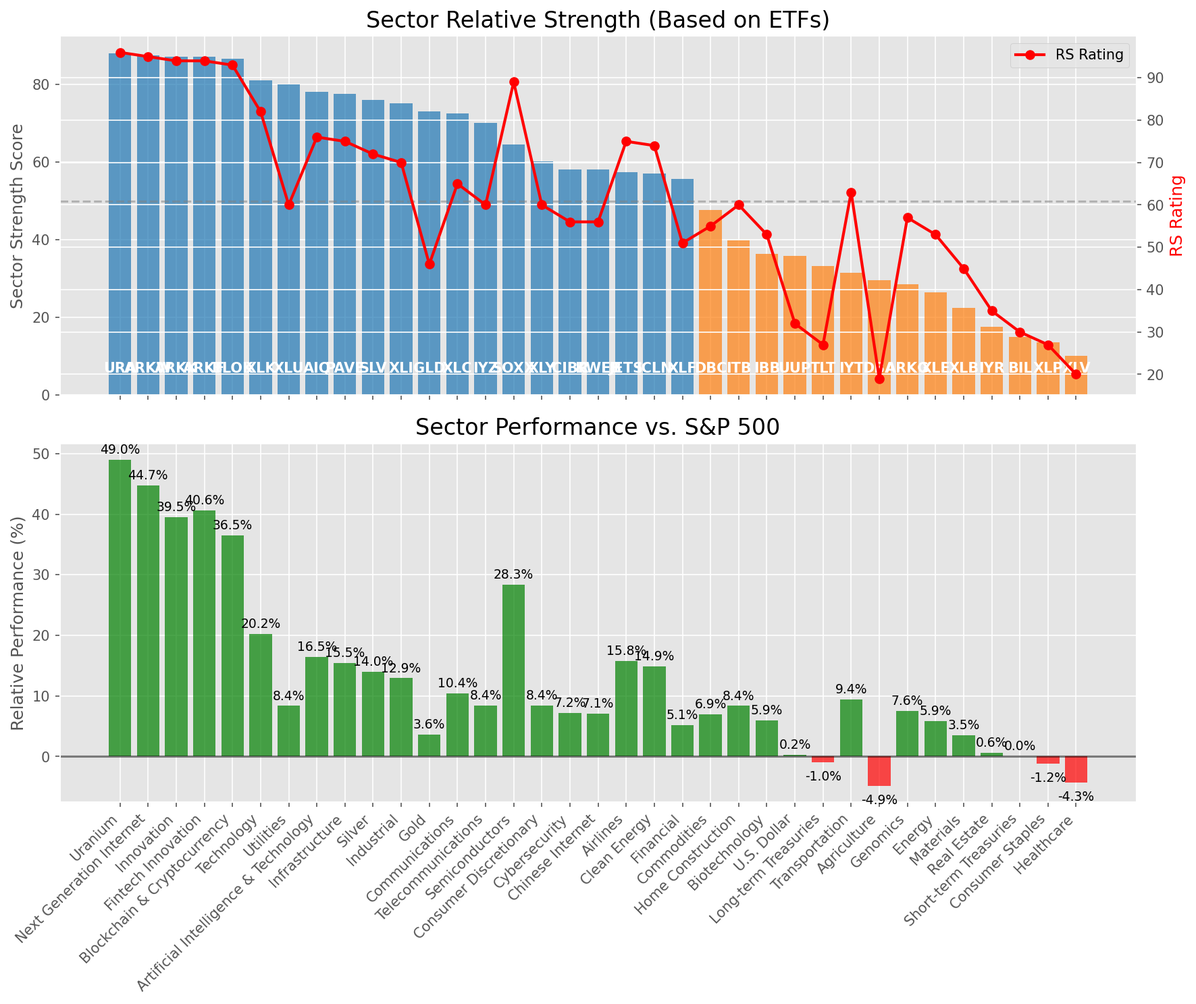
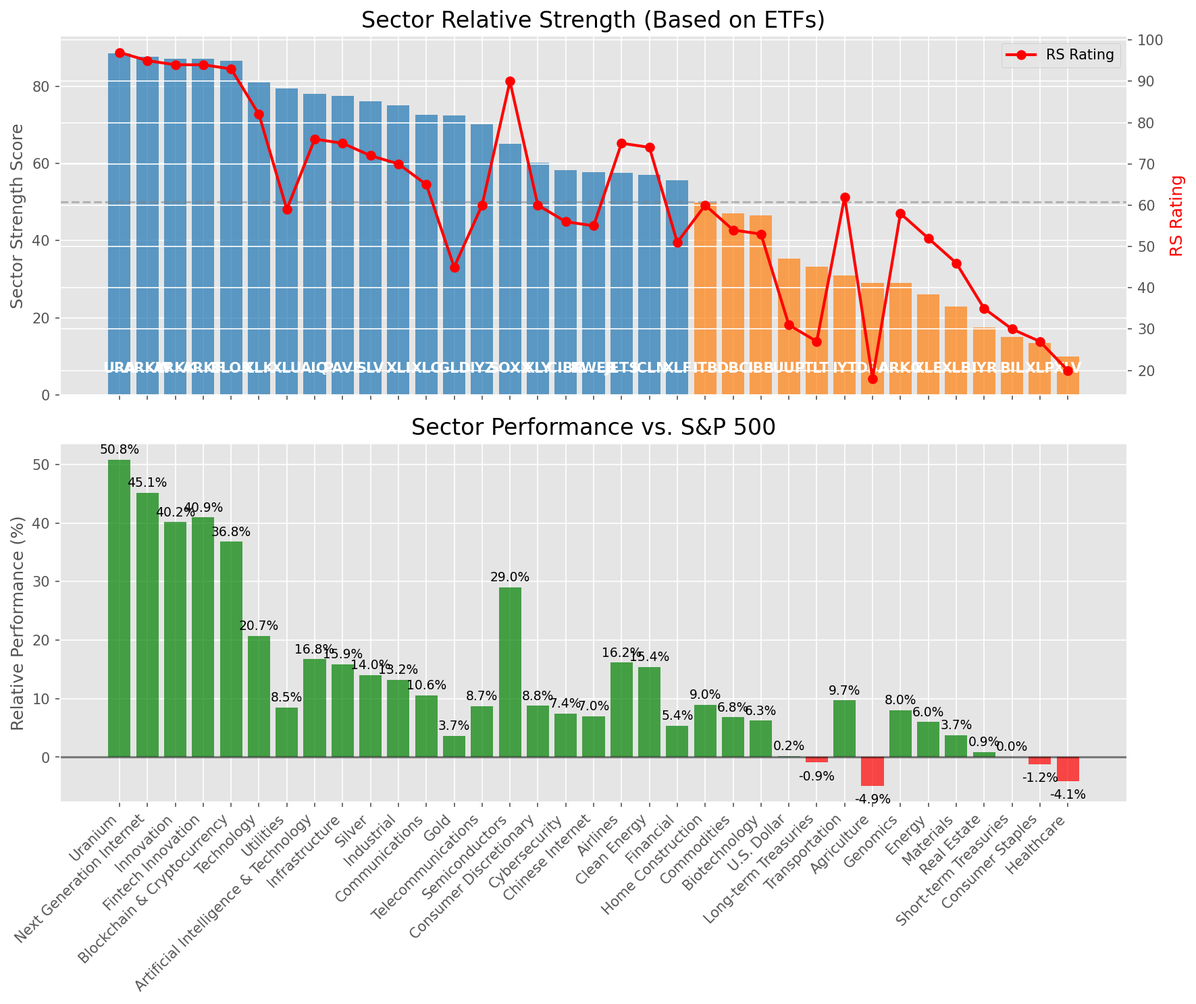
Add market report for 2025-08-01

diff --git a/oneil_relative_strength_report_2025-08-01.md b/oneil_relative_strength_report_2025-08-01.md
@@ -9,11 +9,11 @@
 | Metric | Value |
 |--------|-------|
 | **Market Valuation** | **Overvalued** |
-| **Current Ratio** | 10.06 |
+| **Current Ratio** | 10.09 |
 | **Historical Mean** | 9.55 |
 | **Standard Deviation** | 0.59 |
 | **Z-Score (StdDev from Mean)** | 1.20 |
-| **Total Market Cap** | $305.04 trillion |
+| **Total Market Cap** | $305.97 trillion |
 | **GDP** | $30.33 trillion |
 
 ## **Market Insights**
@@ -49,41 +49,41 @@ Based on William O'Neil's Relative Strength Methodology
 
 | ETF | Strength | RS Rating | Performance | Above Key MAs | Trend | Sector |
 |-----|----------|-----------|-------------|--------------|-------|--------|
-| [URA](https://www.tradingview.com/chart/?symbol=URA) | 88.1 | 96.0 | 48.99% | 10d ✗, 50d ✓, 200d ✓ | ↗ | Uranium |
-| [ARKW](https://www.tradingview.com/chart/?symbol=ARKW) | 87.6 | 95.0 | 44.72% | 10d ✗, 50d ✓, 200d ✓ | ↗ | Next Generation Internet |
-| [ARKK](https://www.tradingview.com/chart/?symbol=ARKK) | 87.1 | 94.0 | 39.50% | 10d ✗, 50d ✓, 200d ✓ | ↗ | Innovation |
-| [ARKF](https://www.tradingview.com/chart/?symbol=ARKF) | 87.1 | 94.0 | 40.58% | 10d ✗, 50d ✓, 200d ✓ | ↗ | Fintech Innovation |
-| [BLOK](https://www.tradingview.com/chart/?symbol=BLOK) | 86.6 | 93.0 | 36.53% | 10d ✗, 50d ✓, 200d ✓ | ↗ | Blockchain & Cryptocurrency |
-| [XLK](https://www.tradingview.com/chart/?symbol=XLK) | 81.1 | 82.0 | 20.25% | 10d ✗, 50d ✓, 200d ✓ | ↗ | Technology |
-| [XLU](https://www.tradingview.com/chart/?symbol=XLU) | 80.0 | 60.0 | 8.35% | 10d ✓, 50d ✓, 200d ✓ | ↗ | Utilities |
-| [AIQ](https://www.tradingview.com/chart/?symbol=AIQ) | 78.1 | 76.0 | 16.46% | 10d ✗, 50d ✓, 200d ✓ | ↗ | Artificial Intelligence & Technology |
-| [PAVE](https://www.tradingview.com/chart/?symbol=PAVE) | 77.6 | 75.0 | 15.48% | 10d ✗, 50d ✓, 200d ✓ | ↗ | Infrastructure |
-| [SLV](https://www.tradingview.com/chart/?symbol=SLV) | 76.1 | 72.0 | 13.98% | 10d ✗, 50d ✓, 200d ✓ | ↗ | Silver |
-| [XLI](https://www.tradingview.com/chart/?symbol=XLI) | 75.1 | 70.0 | 12.93% | 10d ✗, 50d ✓, 200d ✓ | ↗ | Industrial |
-| [GLD](https://www.tradingview.com/chart/?symbol=GLD) | 73.0 | 46.0 | 3.65% | 10d ✓, 50d ✓, 200d ✓ | ↗ | Gold |
-| [XLC](https://www.tradingview.com/chart/?symbol=XLC) | 72.6 | 65.0 | 10.41% | 10d ✗, 50d ✓, 200d ✓ | ↗ | Communications |
-| [IYZ](https://www.tradingview.com/chart/?symbol=IYZ) | 70.1 | 60.0 | 8.42% | 10d ✗, 50d ✓, 200d ✓ | ↗ | Telecommunications |
-| [SOXX](https://www.tradingview.com/chart/?symbol=SOXX) | 64.6 | 89.0 | 28.34% | 10d ✗, 50d ✓, 200d ✓ | ↘ | Semiconductors |
-| [XLY](https://www.tradingview.com/chart/?symbol=XLY) | 60.2 | 60.0 | 8.38% | 10d ✗, 50d ✗, 200d ✓ | ↗ | Consumer Discretionary |
-| [CIBR](https://www.tradingview.com/chart/?symbol=CIBR) | 58.2 | 56.0 | 7.24% | 10d ✗, 50d ✗, 200d ✓ | ↗ | Cybersecurity |
-| [KWEB](https://www.tradingview.com/chart/?symbol=KWEB) | 58.2 | 56.0 | 7.06% | 10d ✗, 50d ✗, 200d ✓ | ↗ | Chinese Internet |
-| [JETS](https://www.tradingview.com/chart/?symbol=JETS) | 57.5 | 75.0 | 15.80% | 10d ✗, 50d ✗, 200d ✗ | ↗ | Airlines |
-| [ICLN](https://www.tradingview.com/chart/?symbol=ICLN) | 57.1 | 74.0 | 14.86% | 10d ✗, 50d ✓, 200d ✓ | ↘ | Clean Energy |
-| [XLF](https://www.tradingview.com/chart/?symbol=XLF) | 55.7 | 51.0 | 5.15% | 10d ✗, 50d ✗, 200d ✓ | ↗ | Financial |
-| [DBC](https://www.tradingview.com/chart/?symbol=DBC) | 47.6 | 55.0 | 6.94% | 10d ✗, 50d ✓, 200d ✓ | ↘ | Commodities |
-| [ITB](https://www.tradingview.com/chart/?symbol=ITB) | 39.9 | 60.0 | 8.37% | 10d ✗, 50d ✓, 200d ✗ | ↘ | Home Construction |
-| [IBB](https://www.tradingview.com/chart/?symbol=IBB) | 36.4 | 53.0 | 5.93% | 10d ✗, 50d ✓, 200d ✗ | ↘ | Biotechnology |
-| [UUP](https://www.tradingview.com/chart/?symbol=UUP) | 35.8 | 32.0 | 0.24% | 10d ✓, 50d ✓, 200d ✗ | ↘ | U.S. Dollar |
-| [TLT](https://www.tradingview.com/chart/?symbol=TLT) | 33.3 | 27.0 | -1.00% | 10d ✓, 50d ✓, 200d ✗ | ↘ | Long-term Treasuries |
-| [IYT](https://www.tradingview.com/chart/?symbol=IYT) | 31.5 | 63.0 | 9.40% | 10d ✗, 50d ✗, 200d ✗ | ↘ | Transportation |
-| [DBA](https://www.tradingview.com/chart/?symbol=DBA) | 29.5 | 19.0 | -4.86% | 10d ✗, 50d ✗, 200d ✗ | ↗ | Agriculture |
-| [ARKG](https://www.tradingview.com/chart/?symbol=ARKG) | 28.5 | 57.0 | 7.56% | 10d ✗, 50d ✗, 200d ✗ | ↘ | Genomics |
-| [XLE](https://www.tradingview.com/chart/?symbol=XLE) | 26.5 | 53.0 | 5.87% | 10d ✗, 50d ✗, 200d ✗ | ↘ | Energy |
-| [XLB](https://www.tradingview.com/chart/?symbol=XLB) | 22.5 | 45.0 | 3.53% | 10d ✗, 50d ✗, 200d ✗ | ↘ | Materials |
-| [IYR](https://www.tradingview.com/chart/?symbol=IYR) | 17.5 | 35.0 | 0.65% | 10d ✗, 50d ✗, 200d ✗ | ↘ | Real Estate |
+| [URA](https://www.tradingview.com/chart/?symbol=URA) | 88.6 | 97.0 | 50.81% | 10d ✗, 50d ✓, 200d ✓ | ↗ | Uranium |
+| [ARKW](https://www.tradingview.com/chart/?symbol=ARKW) | 87.6 | 95.0 | 45.14% | 10d ✗, 50d ✓, 200d ✓ | ↗ | Next Generation Internet |
+| [ARKK](https://www.tradingview.com/chart/?symbol=ARKK) | 87.1 | 94.0 | 40.16% | 10d ✗, 50d ✓, 200d ✓ | ↗ | Innovation |
+| [ARKF](https://www.tradingview.com/chart/?symbol=ARKF) | 87.1 | 94.0 | 40.94% | 10d ✗, 50d ✓, 200d ✓ | ↗ | Fintech Innovation |
+| [BLOK](https://www.tradingview.com/chart/?symbol=BLOK) | 86.6 | 93.0 | 36.83% | 10d ✗, 50d ✓, 200d ✓ | ↗ | Blockchain & Cryptocurrency |
+| [XLK](https://www.tradingview.com/chart/?symbol=XLK) | 81.1 | 82.0 | 20.70% | 10d ✗, 50d ✓, 200d ✓ | ↗ | Technology |
+| [XLU](https://www.tradingview.com/chart/?symbol=XLU) | 79.5 | 59.0 | 8.47% | 10d ✓, 50d ✓, 200d ✓ | ↗ | Utilities |
+| [AIQ](https://www.tradingview.com/chart/?symbol=AIQ) | 78.1 | 76.0 | 16.76% | 10d ✗, 50d ✓, 200d ✓ | ↗ | Artificial Intelligence & Technology |
+| [PAVE](https://www.tradingview.com/chart/?symbol=PAVE) | 77.6 | 75.0 | 15.85% | 10d ✗, 50d ✓, 200d ✓ | ↗ | Infrastructure |
+| [SLV](https://www.tradingview.com/chart/?symbol=SLV) | 76.1 | 72.0 | 14.04% | 10d ✗, 50d ✓, 200d ✓ | ↗ | Silver |
+| [XLI](https://www.tradingview.com/chart/?symbol=XLI) | 75.1 | 70.0 | 13.22% | 10d ✗, 50d ✓, 200d ✓ | ↗ | Industrial |
+| [XLC](https://www.tradingview.com/chart/?symbol=XLC) | 72.6 | 65.0 | 10.56% | 10d ✗, 50d ✓, 200d ✓ | ↗ | Communications |
+| [GLD](https://www.tradingview.com/chart/?symbol=GLD) | 72.5 | 45.0 | 3.68% | 10d ✓, 50d ✓, 200d ✓ | ↗ | Gold |
+| [IYZ](https://www.tradingview.com/chart/?symbol=IYZ) | 70.1 | 60.0 | 8.72% | 10d ✗, 50d ✓, 200d ✓ | ↗ | Telecommunications |
+| [SOXX](https://www.tradingview.com/chart/?symbol=SOXX) | 65.1 | 90.0 | 29.02% | 10d ✗, 50d ✓, 200d ✓ | ↘ | Semiconductors |
+| [XLY](https://www.tradingview.com/chart/?symbol=XLY) | 60.2 | 60.0 | 8.76% | 10d ✗, 50d ✗, 200d ✓ | ↗ | Consumer Discretionary |
+| [CIBR](https://www.tradingview.com/chart/?symbol=CIBR) | 58.2 | 56.0 | 7.45% | 10d ✗, 50d ✗, 200d ✓ | ↗ | Cybersecurity |
+| [KWEB](https://www.tradingview.com/chart/?symbol=KWEB) | 57.7 | 55.0 | 6.99% | 10d ✗, 50d ✗, 200d ✓ | ↗ | Chinese Internet |
+| [JETS](https://www.tradingview.com/chart/?symbol=JETS) | 57.5 | 75.0 | 16.17% | 10d ✗, 50d ✗, 200d ✗ | ↗ | Airlines |
+| [ICLN](https://www.tradingview.com/chart/?symbol=ICLN) | 57.1 | 74.0 | 15.42% | 10d ✗, 50d ✓, 200d ✓ | ↘ | Clean Energy |
+| [XLF](https://www.tradingview.com/chart/?symbol=XLF) | 55.7 | 51.0 | 5.41% | 10d ✗, 50d ✗, 200d ✓ | ↗ | Financial |
+| [ITB](https://www.tradingview.com/chart/?symbol=ITB) | 49.8 | 60.0 | 8.98% | 10d ✓, 50d ✓, 200d ✗ | ↘ | Home Construction |
+| [DBC](https://www.tradingview.com/chart/?symbol=DBC) | 47.1 | 54.0 | 6.82% | 10d ✗, 50d ✓, 200d ✓ | ↘ | Commodities |
+| [IBB](https://www.tradingview.com/chart/?symbol=IBB) | 46.6 | 53.0 | 6.27% | 10d ✗, 50d ✓, 200d ✓ | ↘ | Biotechnology |
+| [UUP](https://www.tradingview.com/chart/?symbol=UUP) | 35.3 | 31.0 | 0.16% | 10d ✓, 50d ✓, 200d ✗ | ↘ | U.S. Dollar |
+| [TLT](https://www.tradingview.com/chart/?symbol=TLT) | 33.3 | 27.0 | -0.92% | 10d ✓, 50d ✓, 200d ✗ | ↘ | Long-term Treasuries |
+| [IYT](https://www.tradingview.com/chart/?symbol=IYT) | 31.0 | 62.0 | 9.68% | 10d ✗, 50d ✗, 200d ✗ | ↘ | Transportation |
+| [DBA](https://www.tradingview.com/chart/?symbol=DBA) | 29.0 | 18.0 | -4.91% | 10d ✗, 50d ✗, 200d ✗ | ↗ | Agriculture |
+| [ARKG](https://www.tradingview.com/chart/?symbol=ARKG) | 29.0 | 58.0 | 8.05% | 10d ✗, 50d ✗, 200d ✗ | ↘ | Genomics |
+| [XLE](https://www.tradingview.com/chart/?symbol=XLE) | 26.0 | 52.0 | 5.99% | 10d ✗, 50d ✗, 200d ✗ | ↘ | Energy |
+| [XLB](https://www.tradingview.com/chart/?symbol=XLB) | 23.0 | 46.0 | 3.75% | 10d ✗, 50d ✗, 200d ✗ | ↘ | Materials |
+| [IYR](https://www.tradingview.com/chart/?symbol=IYR) | 17.5 | 35.0 | 0.88% | 10d ✗, 50d ✗, 200d ✗ | ↘ | Real Estate |
 | [BIL](https://www.tradingview.com/chart/?symbol=BIL) | 15.0 | 30.0 | 0.04% | 10d ✗, 50d ✗, 200d ✗ | ↘ | Short-term Treasuries |
-| [XLP](https://www.tradingview.com/chart/?symbol=XLP) | 13.5 | 27.0 | -1.18% | 10d ✗, 50d ✗, 200d ✗ | ↘ | Consumer Staples |
-| [XLV](https://www.tradingview.com/chart/?symbol=XLV) | 10.0 | 20.0 | -4.26% | 10d ✗, 50d ✗, 200d ✗ | ↘ | Healthcare |
+| [XLP](https://www.tradingview.com/chart/?symbol=XLP) | 13.5 | 27.0 | -1.23% | 10d ✗, 50d ✗, 200d ✗ | ↘ | Consumer Staples |
+| [XLV](https://www.tradingview.com/chart/?symbol=XLV) | 10.0 | 20.0 | -4.06% | 10d ✗, 50d ✗, 200d ✗ | ↘ | Healthcare |
 
 ### **Sector ETF Performance Interpretation**
 
@@ -100,147 +100,144 @@ This table shows the relative strength metrics for different market sectors base
 
 The current market leadership is coming from the following sectors: **Uranium, Next Generation Internet, Innovation**.
 
-The **Uranium** sector (represented by **URA**) is showing particularly strong relative strength with an RS rating of 96.0 and performance of 48.99% vs. the S&P 500. This sector is trading above its 50-day, 200-day moving average(s). Investors should consider focusing on high RS stocks within these leading sectors for potential outperformance.
+The **Uranium** sector (represented by **URA**) is showing particularly strong relative strength with an RS rating of 97.0 and performance of 50.81% vs. the S&P 500. This sector is trading above its 50-day, 200-day moving average(s). Investors should consider focusing on high RS stocks within these leading sectors for potential outperformance.
 
 ---
 
 ## **Buy Recommendations**
 
-The following 36 stocks show exceptional relative strength:
+The following 40 stocks show exceptional relative strength:
 
 | RS Rating | Buy Score | Current Price | Chart | Name | Ticker |
 |-----------|-----------|---------------|-------|------|--------|
-| 100 | 100 | $192.00 | [Chart](https://www.tradingview.com/chart/?symbol=CLS) | Celestica, Inc. | CLS |
-| 100 | 100 | $105.68 | [Chart](https://www.tradingview.com/chart/?symbol=CRDO) | Credo Technology Group Holding Ltd Ordinary Shares | CRDO |
-| 100 | 100 | $61.92 | [Chart](https://www.tradingview.com/chart/?symbol=MP) | MP Materials Corp. | MP |
-| 100 | 100 | $227.20 | [Chart](https://www.tradingview.com/chart/?symbol=DAVE) | Dave Inc. Class A Common Stock | DAVE |
-| 99 | 100 | $27.08 | [Chart](https://www.tradingview.com/chart/?symbol=CPS) | Cooper-Standard Automotive Inc. | CPS |
-| 99 | 100 | $651.89 | [Chart](https://www.tradingview.com/chart/?symbol=GEV) | GE Vernova Inc. | GEV |
-| 99 | 100 | $61.92 | [Chart](https://www.tradingview.com/chart/?symbol=HIMS) | Hims & Hers Health, Inc. | HIMS |
-| 99 | 100 | $375.96 | [Chart](https://www.tradingview.com/chart/?symbol=TLN) | Talen Energy Corporation Common Stock | TLN |
-| 99 | 100 | $125.63 | [Chart](https://www.tradingview.com/chart/?symbol=RBLX) | Roblox Corporation | RBLX |
-| 98 | 100 | $199.91 | [Chart](https://www.tradingview.com/chart/?symbol=NET) | Cloudflare, Inc. Class A common stock, par value $0.001 per share | NET |
-| 97 | 100 | $163.48 | [Chart](https://www.tradingview.com/chart/?symbol=IRTC) | iRhythm Technologies, Inc | IRTC |
-| 96 | 100 | $166.12 | [Chart](https://www.tradingview.com/chart/?symbol=NRG) | NRG Energy, Inc. | NRG |
-| 96 | 100 | $105.18 | [Chart](https://www.tradingview.com/chart/?symbol=VRNA) | Verona Pharma plc | VRNA |
-| 96 | 100 | $367.15 | [Chart](https://www.tradingview.com/chart/?symbol=CVNA) | Carvana Co. | CVNA |
-| 95 | 100 | $171.99 | [Chart](https://www.tradingview.com/chart/?symbol=COOP) | Mr. Cooper Group Inc. Common Stock | COOP |
-| 94 | 100 | $110.53 | [Chart](https://www.tradingview.com/chart/?symbol=SANM) | Sanmina  Corp | SANM |
-| 94 | 100 | $490.37 | [Chart](https://www.tradingview.com/chart/?symbol=CW) | Curtiss-Wright Corp. | CW |
-| 93 | 100 | $86.94 | [Chart](https://www.tradingview.com/chart/?symbol=RYTM) | Rhythm Pharmaceuticals, Inc. Common Stock | RYTM |
-| 93 | 100 | $91.94 | [Chart](https://www.tradingview.com/chart/?symbol=EBAY) | eBay Inc | EBAY |
-| 93 | 100 | $42.92 | [Chart](https://www.tradingview.com/chart/?symbol=LTM) | LATAM Airlines Group S.A. American Depositary Shares (each representing two thousand (2,000) shares of Common Stock) | LTM |
-| 92 | 100 | $375.33 | [Chart](https://www.tradingview.com/chart/?symbol=APP) | Applovin Corporation Class A Common Stock | APP |
-| 91 | 100 | $268.16 | [Chart](https://www.tradingview.com/chart/?symbol=GE) | GE Aerospace | GE |
-| 90 | 100 | $35.04 | [Chart](https://www.tradingview.com/chart/?symbol=APG) | APi Group Corporation | APG |
-| 90 | 100 | $80.59 | [Chart](https://www.tradingview.com/chart/?symbol=TPB) | Turning Point Brands, Inc. | TPB |
-| 88 | 100 | $144.52 | [Chart](https://www.tradingview.com/chart/?symbol=VSEC) | VSE Corp | VSEC |
-| 87 | 100 | $29.41 | [Chart](https://www.tradingview.com/chart/?symbol=SRAD) | Sportradar Group AG Class A Ordinary Shares | SRAD |
-| 89 | 99 | $186.89 | [Chart](https://www.tradingview.com/chart/?symbol=AWI) | Armstrong World Industries, Inc. | AWI |
-| 87 | 99 | $54.37 | [Chart](https://www.tradingview.com/chart/?symbol=BTI) | British American Tobacco p.l.c. American Depositary Shares, American Depositary Shares, each representing one Ordinary Share | BTI |
-| 85 | 98 | $56.70 | [Chart](https://www.tradingview.com/chart/?symbol=ERJ) | Embraer S.A. | ERJ |
-| 84 | 97 | $38.78 | [Chart](https://www.tradingview.com/chart/?symbol=AHR) | American Healthcare REIT, Inc. | AHR |
-| 86 | 96 | $94.60 | [Chart](https://www.tradingview.com/chart/?symbol=NDAQ) | Nasdaq, Inc. Common Stock | NDAQ |
-| 86 | 96 | $257.14 | [Chart](https://www.tradingview.com/chart/?symbol=WTS) | Watts Water Technologies, Inc. Class A | WTS |
-| 85 | 96 | $71.78 | [Chart](https://www.tradingview.com/chart/?symbol=ULS) | UL Solutions Inc. | ULS |
-| 84 | 96 | $47.05 | [Chart](https://www.tradingview.com/chart/?symbol=BBIO) | BridgeBio Pharma, Inc. Common Stock | BBIO |
-| 81 | 91 | $110.93 | [Chart](https://www.tradingview.com/chart/?symbol=SXT) | Sensient Technology Corporation | SXT |
-| 80 | 91 | $234.71 | [Chart](https://www.tradingview.com/chart/?symbol=BAP) | Credicorp LTD | BAP |
+| 100 | 100 | $143.89 | [Chart](https://www.tradingview.com/chart/?symbol=SEZL) | Sezzle Inc. Common Stock | SEZL |
+| 100 | 100 | $230.88 | [Chart](https://www.tradingview.com/chart/?symbol=DAVE) | Dave Inc. Class A Common Stock | DAVE |
+| 100 | 100 | $63.70 | [Chart](https://www.tradingview.com/chart/?symbol=MP) | MP Materials Corp. | MP |
+| 100 | 100 | $193.70 | [Chart](https://www.tradingview.com/chart/?symbol=CLS) | Celestica, Inc. | CLS |
+| 99 | 100 | $655.82 | [Chart](https://www.tradingview.com/chart/?symbol=GEV) | GE Vernova Inc. | GEV |
+| 99 | 100 | $61.98 | [Chart](https://www.tradingview.com/chart/?symbol=HIMS) | Hims & Hers Health, Inc. | HIMS |
+| 99 | 100 | $124.51 | [Chart](https://www.tradingview.com/chart/?symbol=RBLX) | Roblox Corporation | RBLX |
+| 99 | 100 | $27.34 | [Chart](https://www.tradingview.com/chart/?symbol=CPS) | Cooper-Standard Automotive Inc. | CPS |
+| 98 | 100 | $199.79 | [Chart](https://www.tradingview.com/chart/?symbol=NET) | Cloudflare, Inc. Class A common stock, par value $0.001 per share | NET |
+| 98 | 100 | $379.57 | [Chart](https://www.tradingview.com/chart/?symbol=TLN) | Talen Energy Corporation Common Stock | TLN |
+| 97 | 100 | $165.69 | [Chart](https://www.tradingview.com/chart/?symbol=IRTC) | iRhythm Technologies, Inc | IRTC |
+| 96 | 100 | $167.58 | [Chart](https://www.tradingview.com/chart/?symbol=NRG) | NRG Energy, Inc. | NRG |
+| 95 | 100 | $172.48 | [Chart](https://www.tradingview.com/chart/?symbol=COOP) | Mr. Cooper Group Inc. Common Stock | COOP |
+| 95 | 100 | $105.16 | [Chart](https://www.tradingview.com/chart/?symbol=VRNA) | Verona Pharma plc | VRNA |
+| 95 | 100 | $367.42 | [Chart](https://www.tradingview.com/chart/?symbol=CVNA) | Carvana Co. | CVNA |
+| 95 | 100 | $48.30 | [Chart](https://www.tradingview.com/chart/?symbol=REVG) | REV Group, Inc. | REVG |
+| 94 | 100 | $110.78 | [Chart](https://www.tradingview.com/chart/?symbol=SANM) | Sanmina  Corp | SANM |
+| 94 | 100 | $493.45 | [Chart](https://www.tradingview.com/chart/?symbol=CW) | Curtiss-Wright Corp. | CW |
+| 93 | 100 | $258.85 | [Chart](https://www.tradingview.com/chart/?symbol=WWD) | Woodward, Inc. | WWD |
+| 93 | 100 | $379.67 | [Chart](https://www.tradingview.com/chart/?symbol=APP) | Applovin Corporation Class A Common Stock | APP |
+| 93 | 100 | $92.34 | [Chart](https://www.tradingview.com/chart/?symbol=EBAY) | eBay Inc | EBAY |
+| 93 | 100 | $87.59 | [Chart](https://www.tradingview.com/chart/?symbol=RYTM) | Rhythm Pharmaceuticals, Inc. Common Stock | RYTM |
+| 93 | 100 | $43.02 | [Chart](https://www.tradingview.com/chart/?symbol=LTM) | LATAM Airlines Group S.A. American Depositary Shares (each representing two thousand (2,000) shares of Common Stock) | LTM |
+| 91 | 100 | $268.80 | [Chart](https://www.tradingview.com/chart/?symbol=GE) | GE Aerospace | GE |
+| 91 | 100 | $81.68 | [Chart](https://www.tradingview.com/chart/?symbol=TPB) | Turning Point Brands, Inc. | TPB |
+| 90 | 100 | $35.22 | [Chart](https://www.tradingview.com/chart/?symbol=APG) | APi Group Corporation | APG |
+| 88 | 100 | $29.69 | [Chart](https://www.tradingview.com/chart/?symbol=SRAD) | Sportradar Group AG Class A Ordinary Shares | SRAD |
+| 88 | 100 | $145.91 | [Chart](https://www.tradingview.com/chart/?symbol=VSEC) | VSE Corp | VSEC |
+| 89 | 99 | $187.46 | [Chart](https://www.tradingview.com/chart/?symbol=AWI) | Armstrong World Industries, Inc. | AWI |
+| 87 | 99 | $54.40 | [Chart](https://www.tradingview.com/chart/?symbol=BTI) | British American Tobacco p.l.c. American Depositary Shares, American Depositary Shares, each representing one Ordinary Share | BTI |
+| 86 | 99 | $56.93 | [Chart](https://www.tradingview.com/chart/?symbol=ERJ) | Embraer S.A. | ERJ |
+| 84 | 97 | $32.47 | [Chart](https://www.tradingview.com/chart/?symbol=DB) | Deutsche Bank Aktiengesellschaft | DB |
+| 84 | 97 | $38.89 | [Chart](https://www.tradingview.com/chart/?symbol=AHR) | American Healthcare REIT, Inc. | AHR |
+| 86 | 96 | $94.86 | [Chart](https://www.tradingview.com/chart/?symbol=NDAQ) | Nasdaq, Inc. Common Stock | NDAQ |
+| 86 | 96 | $258.86 | [Chart](https://www.tradingview.com/chart/?symbol=WTS) | Watts Water Technologies, Inc. Class A | WTS |
+| 85 | 96 | $71.99 | [Chart](https://www.tradingview.com/chart/?symbol=ULS) | UL Solutions Inc. | ULS |
+| 84 | 96 | $46.95 | [Chart](https://www.tradingview.com/chart/?symbol=BBIO) | BridgeBio Pharma, Inc. Common Stock | BBIO |
+| 82 | 92 | $49.31 | [Chart](https://www.tradingview.com/chart/?symbol=FHI) | Federated Hermes, Inc. | FHI |
+| 81 | 91 | $111.49 | [Chart](https://www.tradingview.com/chart/?symbol=SXT) | Sensient Technology Corporation | SXT |
+| 80 | 91 | $236.16 | [Chart](https://www.tradingview.com/chart/?symbol=BAP) | Credicorp LTD | BAP |
 
 ---
 
 
 ## **Sell Recommendations**
 
-The following 85 stocks show deteriorating relative strength:
+The following 78 stocks show deteriorating relative strength:
 
 | RS Rating | Sell Score | Current Price | Chart | Name | Ticker |
 |-----------|------------|---------------|-------|------|--------|
-| 1 | 100 | $70.11 | [Chart](https://www.tradingview.com/chart/?symbol=LNTH) | Lantheus Holdings, Inc | LNTH |
-| 1 | 100 | $12.59 | [Chart](https://www.tradingview.com/chart/?symbol=NVDS) | Investment Managers Series Trust II Tradr 1.5X Short NVDA Daily ETF | NVDS |
-| 2 | 100 | $13.67 | [Chart](https://www.tradingview.com/chart/?symbol=CLBT) | Cellebrite DI Ltd. Class A Ordinary Shares | CLBT |
-| 2 | 100 | $35.00 | [Chart](https://www.tradingview.com/chart/?symbol=IBTA) | Ibotta, Inc. | IBTA |
-| 3 | 100 | $24.32 | [Chart](https://www.tradingview.com/chart/?symbol=DUST) | Direxion Daily Gold Miners Index Bear 2X Shares | DUST |
-| 3 | 100 | $14.82 | [Chart](https://www.tradingview.com/chart/?symbol=CSTL) | Castle Biosciences, Inc. Common Stock | CSTL |
-| 3 | 100 | $15.30 | [Chart](https://www.tradingview.com/chart/?symbol=TVTX) | Travere Therapeutics, Inc. Common Stock | TVTX |
-| 4 | 100 | $24.63 | [Chart](https://www.tradingview.com/chart/?symbol=ZSL) | ProShares UltraShort Silver | ZSL |
-| 5 | 100 | $12.21 | [Chart](https://www.tradingview.com/chart/?symbol=CDNA) | CareDx, Inc. | CDNA |
-| 5 | 100 | $10.20 | [Chart](https://www.tradingview.com/chart/?symbol=ARDT) | Ardent Health, Inc. | ARDT |
+| 1 | 100 | $12.49 | [Chart](https://www.tradingview.com/chart/?symbol=NVDS) | Investment Managers Series Trust II Tradr 1.5X Short NVDA Daily ETF | NVDS |
+| 1 | 100 | $70.59 | [Chart](https://www.tradingview.com/chart/?symbol=LNTH) | Lantheus Holdings, Inc | LNTH |
+| 2 | 100 | $13.72 | [Chart](https://www.tradingview.com/chart/?symbol=CLBT) | Cellebrite DI Ltd. Class A Ordinary Shares | CLBT |
+| 2 | 100 | $35.27 | [Chart](https://www.tradingview.com/chart/?symbol=IBTA) | Ibotta, Inc. | IBTA |
+| 3 | 100 | $14.84 | [Chart](https://www.tradingview.com/chart/?symbol=CSTL) | Castle Biosciences, Inc. Common Stock | CSTL |
+| 3 | 100 | $24.19 | [Chart](https://www.tradingview.com/chart/?symbol=DUST) | Direxion Daily Gold Miners Index Bear 2X Shares | DUST |
+| 4 | 100 | $24.61 | [Chart](https://www.tradingview.com/chart/?symbol=ZSL) | ProShares UltraShort Silver | ZSL |
+| 5 | 100 | $43.27 | [Chart](https://www.tradingview.com/chart/?symbol=SDOW) | ProShares UltraPro Short Dow 30 | SDOW |
+| 5 | 100 | $12.24 | [Chart](https://www.tradingview.com/chart/?symbol=CDNA) | CareDx, Inc. | CDNA |
+| 5 | 100 | $10.29 | [Chart](https://www.tradingview.com/chart/?symbol=ARDT) | Ardent Health, Inc. | ARDT |
 | 6 | 100 | $10.37 | [Chart](https://www.tradingview.com/chart/?symbol=OEC) | Orion S.A. | OEC |
-| 6 | 100 | $43.60 | [Chart](https://www.tradingview.com/chart/?symbol=SDOW) | ProShares UltraPro Short Dow 30 | SDOW |
-| 7 | 100 | $20.66 | [Chart](https://www.tradingview.com/chart/?symbol=AMRK) | A-Mark Precious Metals, Inc. | AMRK |
-| 8 | 100 | $12.48 | [Chart](https://www.tradingview.com/chart/?symbol=BSM) | Black Stone Minerals, L.P. | BSM |
-| 8 | 100 | $31.42 | [Chart](https://www.tradingview.com/chart/?symbol=GLBE) | Global-E Online Ltd. Ordinary Shares | GLBE |
-| 8 | 100 | $22.43 | [Chart](https://www.tradingview.com/chart/?symbol=ERY) | Direxion Daily Energy Bear 2X Shares | ERY |
-| 9 | 100 | $54.26 | [Chart](https://www.tradingview.com/chart/?symbol=HRB) | H&R Block, Inc. | HRB |
-| 13 | 100 | $16.23 | [Chart](https://www.tradingview.com/chart/?symbol=UMH) | UMH Properties, Inc. | UMH |
-| 14 | 100 | $14.90 | [Chart](https://www.tradingview.com/chart/?symbol=FIHL) | Fidelis Insurance Holdings Limited | FIHL |
+| 6 | 100 | $20.72 | [Chart](https://www.tradingview.com/chart/?symbol=KIDS) | OrthoPediatrics Corp. Common Stock | KIDS |
+| 7 | 100 | $20.69 | [Chart](https://www.tradingview.com/chart/?symbol=AMRK) | A-Mark Precious Metals, Inc. | AMRK |
+| 8 | 100 | $22.39 | [Chart](https://www.tradingview.com/chart/?symbol=ERY) | Direxion Daily Energy Bear 2X Shares | ERY |
+| 8 | 100 | $31.39 | [Chart](https://www.tradingview.com/chart/?symbol=GLBE) | Global-E Online Ltd. Ordinary Shares | GLBE |
+| 9 | 100 | $54.50 | [Chart](https://www.tradingview.com/chart/?symbol=HRB) | H&R Block, Inc. | HRB |
+| 13 | 100 | $16.24 | [Chart](https://www.tradingview.com/chart/?symbol=UMH) | UMH Properties, Inc. | UMH |
+| 14 | 100 | $14.92 | [Chart](https://www.tradingview.com/chart/?symbol=FIHL) | Fidelis Insurance Holdings Limited | FIHL |
 | 6 | 99 | $15.02 | [Chart](https://www.tradingview.com/chart/?symbol=PLSE) | Pulse Biosciences, Inc Common Stock (DE) | PLSE |
-| 7 | 99 | $18.85 | [Chart](https://www.tradingview.com/chart/?symbol=GAP) | The Gap, Inc. | GAP |
-| 10 | 99 | $21.01 | [Chart](https://www.tradingview.com/chart/?symbol=AMPH) | Amphastar Pharmaceuticals, Inc. | AMPH |
+| 8 | 99 | $12.52 | [Chart](https://www.tradingview.com/chart/?symbol=BSM) | Black Stone Minerals, L.P. | BSM |
+| 10 | 99 | $21.14 | [Chart](https://www.tradingview.com/chart/?symbol=AMPH) | Amphastar Pharmaceuticals, Inc. | AMPH |
 | 12 | 99 | $52.61 | [Chart](https://www.tradingview.com/chart/?symbol=AMWD) | American Woodmark Corp | AMWD |
-| 14 | 99 | $126.66 | [Chart](https://www.tradingview.com/chart/?symbol=ICUI) | ICU Medical Inc | ICUI |
-| 6 | 98 | $20.54 | [Chart](https://www.tradingview.com/chart/?symbol=BLFS) | BioLife Solutions Inc. | BLFS |
-| 9 | 98 | $17.81 | [Chart](https://www.tradingview.com/chart/?symbol=AMN) | AMN Healthcare Services | AMN |
+| 7 | 98 | $18.76 | [Chart](https://www.tradingview.com/chart/?symbol=GAP) | The Gap, Inc. | GAP |
+| 9 | 98 | $17.95 | [Chart](https://www.tradingview.com/chart/?symbol=AMN) | AMN Healthcare Services | AMN |
 | 9 | 98 | $10.18 | [Chart](https://www.tradingview.com/chart/?symbol=IMXI) | International Money Express, Inc. | IMXI |
-| 10 | 98 | $18.70 | [Chart](https://www.tradingview.com/chart/?symbol=AVBP) | ArriVent BioPharma, Inc. Common Stock | AVBP |
-| 9 | 97 | $10.10 | [Chart](https://www.tradingview.com/chart/?symbol=SD) | SandRidge Energy, Inc. | SD |
-| 12 | 97 | $10.47 | [Chart](https://www.tradingview.com/chart/?symbol=CLB) | Core Laboratories Inc. | CLB |
-| 8 | 96 | $52.17 | [Chart](https://www.tradingview.com/chart/?symbol=TSN) | Tyson Foods, Inc. | TSN |
-| 10 | 96 | $35.30 | [Chart](https://www.tradingview.com/chart/?symbol=LZB) | La-Z-Boy Incorporated | LZB |
-| 17 | 96 | $70.90 | [Chart](https://www.tradingview.com/chart/?symbol=NHI) | National Health Investors | NHI |
-| 13 | 93 | $10.19 | [Chart](https://www.tradingview.com/chart/?symbol=ACIC) | American Coastal Insurance Corporation Common Stock | ACIC |
-| 17 | 93 | $15.62 | [Chart](https://www.tradingview.com/chart/?symbol=MLNK) | MeridianLink, Inc. | MLNK |
-| 15 | 91 | $12.98 | [Chart](https://www.tradingview.com/chart/?symbol=GOOD) | Gladstone Commercial Corporation - REIT | GOOD |
-| 20 | 90 | $10.97 | [Chart](https://www.tradingview.com/chart/?symbol=MBC) | MasterBrand, Inc. | MBC |
-| 21 | 90 | $37.09 | [Chart](https://www.tradingview.com/chart/?symbol=PBA) | PEMBINA PIPELINE CORPORATION | PBA |
-| 20 | 89 | $18.36 | [Chart](https://www.tradingview.com/chart/?symbol=VSCO) | Victorias Secret & Co. | VSCO |
-| 13 | 88 | $10.39 | [Chart](https://www.tradingview.com/chart/?symbol=SONO) | Sonos, Inc. Common Stock | SONO |
-| 18 | 88 | $21.82 | [Chart](https://www.tradingview.com/chart/?symbol=CURB) | Curbline Properties Corp. | CURB |
+| 15 | 98 | $127.38 | [Chart](https://www.tradingview.com/chart/?symbol=ICUI) | ICU Medical Inc | ICUI |
+| 6 | 97 | $20.68 | [Chart](https://www.tradingview.com/chart/?symbol=BLFS) | BioLife Solutions Inc. | BLFS |
+| 9 | 97 | $10.07 | [Chart](https://www.tradingview.com/chart/?symbol=SD) | SandRidge Energy, Inc. | SD |
+| 10 | 97 | $18.80 | [Chart](https://www.tradingview.com/chart/?symbol=AVBP) | ArriVent BioPharma, Inc. Common Stock | AVBP |
+| 12 | 97 | $10.60 | [Chart](https://www.tradingview.com/chart/?symbol=CLB) | Core Laboratories Inc. | CLB |
+| 10 | 96 | $35.48 | [Chart](https://www.tradingview.com/chart/?symbol=LZB) | La-Z-Boy Incorporated | LZB |
+| 18 | 95 | $71.17 | [Chart](https://www.tradingview.com/chart/?symbol=NHI) | National Health Investors | NHI |
+| 13 | 93 | $10.20 | [Chart](https://www.tradingview.com/chart/?symbol=ACIC) | American Coastal Insurance Corporation Common Stock | ACIC |
+| 17 | 92 | $15.64 | [Chart](https://www.tradingview.com/chart/?symbol=MLNK) | MeridianLink, Inc. | MLNK |
+| 15 | 90 | $13.02 | [Chart](https://www.tradingview.com/chart/?symbol=GOOD) | Gladstone Commercial Corporation - REIT | GOOD |
+| 21 | 90 | $37.16 | [Chart](https://www.tradingview.com/chart/?symbol=PBA) | PEMBINA PIPELINE CORPORATION | PBA |
+| 21 | 89 | $85.62 | [Chart](https://www.tradingview.com/chart/?symbol=BCO) | The Brink's Company | BCO |
+| 18 | 88 | $21.88 | [Chart](https://www.tradingview.com/chart/?symbol=CURB) | Curbline Properties Corp. | CURB |
+| 21 | 88 | $18.52 | [Chart](https://www.tradingview.com/chart/?symbol=VSCO) | Victorias Secret & Co. | VSCO |
+| 14 | 87 | $10.44 | [Chart](https://www.tradingview.com/chart/?symbol=SONO) | Sonos, Inc. Common Stock | SONO |
 | 19 | 87 | $11.93 | [Chart](https://www.tradingview.com/chart/?symbol=WSR) | Whitestone REIT | WSR |
-| 21 | 86 | $31.45 | [Chart](https://www.tradingview.com/chart/?symbol=DAR) | DARLING INGREDIENTS INC. | DAR |
-| 23 | 86 | $12.54 | [Chart](https://www.tradingview.com/chart/?symbol=ZYME) | Zymeworks Inc. | ZYME |
-| 29 | 86 | $16.56 | [Chart](https://www.tradingview.com/chart/?symbol=SVOL) | Simplify Volatility Premium ETF | SVOL |
-| 17 | 85 | $97.44 | [Chart](https://www.tradingview.com/chart/?symbol=AFL) | Aflac Inc. | AFL |
-| 16 | 84 | $29.47 | [Chart](https://www.tradingview.com/chart/?symbol=KVYO) | Klaviyo, Inc. | KVYO |
-| 24 | 84 | $13.18 | [Chart](https://www.tradingview.com/chart/?symbol=CCRN) | Cross Country Healthcare Inc | CCRN |
-| 24 | 84 | $10.02 | [Chart](https://www.tradingview.com/chart/?symbol=NMZ) | Nuveen Municipal High Income Opportunity Fund | NMZ |
-| 25 | 84 | $137.93 | [Chart](https://www.tradingview.com/chart/?symbol=DVA) | DaVita Inc. | DVA |
-| 25 | 83 | $87.34 | [Chart](https://www.tradingview.com/chart/?symbol=BCO) | The Brink's Company | BCO |
-| 23 | 82 | $11.26 | [Chart](https://www.tradingview.com/chart/?symbol=ROIV) | Roivant Sciences Ltd. Common Shares | ROIV |
-| 26 | 82 | $11.78 | [Chart](https://www.tradingview.com/chart/?symbol=NVG) | Nuveen AMT-Free Municipal Credit Income Fund | NVG |
-| 22 | 81 | $10.15 | [Chart](https://www.tradingview.com/chart/?symbol=BRKL) | Brookline Bancorp Inc | BRKL |
-| 22 | 79 | $73.41 | [Chart](https://www.tradingview.com/chart/?symbol=MET) | MetLife, Inc. | MET |
-| 23 | 79 | $186.20 | [Chart](https://www.tradingview.com/chart/?symbol=AIZ) | Assurant, Inc. | AIZ |
-| 25 | 79 | $12.11 | [Chart](https://www.tradingview.com/chart/?symbol=NU) | Nu Holdings Ltd. | NU |
-| 27 | 79 | $12.20 | [Chart](https://www.tradingview.com/chart/?symbol=RQI) | COHEN & STEERS QUALITY INCOME REALTY FUND, INC. COMMON SHARES | RQI |
-| 27 | 79 | $18.63 | [Chart](https://www.tradingview.com/chart/?symbol=KRNT) | Kornit Digital Ltd. | KRNT |
-| 39 | 79 | $10.29 | [Chart](https://www.tradingview.com/chart/?symbol=PFLT) | PennantPark Floating Rate Capital Ltd. | PFLT |
-| 23 | 78 | $16.92 | [Chart](https://www.tradingview.com/chart/?symbol=NBBK) | NB Bancorp, Inc. Common Stock | NBBK |
-| 25 | 78 | $153.00 | [Chart](https://www.tradingview.com/chart/?symbol=NICE) | NICE Ltd | NICE |
-| 28 | 78 | $291.26 | [Chart](https://www.tradingview.com/chart/?symbol=UTHR) | United Therapeutics Corp | UTHR |
-| 30 | 77 | $23.28 | [Chart](https://www.tradingview.com/chart/?symbol=IBTF) | iShares iBonds Dec 2025 Term Treasury ETF | IBTF |
-| 31 | 77 | $59.89 | [Chart](https://www.tradingview.com/chart/?symbol=FTSM) | First Trust Enhanced Short Maturity ETF | FTSM |
-| 24 | 76 | $85.97 | [Chart](https://www.tradingview.com/chart/?symbol=BIDU) | Baidu, Inc. | BIDU |
-| 27 | 76 | $44.73 | [Chart](https://www.tradingview.com/chart/?symbol=EPI) | WisdomTree India Earnings Fund ETF | EPI |
-| 32 | 76 | $100.28 | [Chart](https://www.tradingview.com/chart/?symbol=MINT) | PIMCO Enhanced Short Maturity Active Exchange-Traded Fund | MINT |
-| 32 | 75 | $23.11 | [Chart](https://www.tradingview.com/chart/?symbol=IBHF) | iShares iBonds 2026 Term High Yield and Income ETF | IBHF |
-| 38 | 75 | $13.46 | [Chart](https://www.tradingview.com/chart/?symbol=OCSL) | Oaktree Specialty Lending Corporation | OCSL |
-| 36 | 74 | $20.89 | [Chart](https://www.tradingview.com/chart/?symbol=BKLN) | Invesco Senior Loan ETF | BKLN |
-| 30 | 72 | $22.85 | [Chart](https://www.tradingview.com/chart/?symbol=IBTG) | iShares iBonds Dec 2026 Term Treasury ETF | IBTG |
-| 33 | 72 | $30.73 | [Chart](https://www.tradingview.com/chart/?symbol=FLRN) | SPDR Bloomberg Investment Grade Floating Rate ETF | FLRN |
-| 35 | 70 | $78.34 | [Chart](https://www.tradingview.com/chart/?symbol=FIS) | Fidelity National Information Services, Inc. | FIS |
-| 38 | 70 | $77.67 | [Chart](https://www.tradingview.com/chart/?symbol=GPN) | Global Payments, Inc. | GPN |
-| 34 | 69 | $47.52 | [Chart](https://www.tradingview.com/chart/?symbol=SPHD) | Invesco S&P 500 High Dividend Low Volatility ETF | SPHD |
-| 35 | 69 | $45.93 | [Chart](https://www.tradingview.com/chart/?symbol=FTSL) | First Trust Senior Loan Fund ETF | FTSL |
-| 34 | 68 | $33.96 | [Chart](https://www.tradingview.com/chart/?symbol=FFIN) | First Financial Bankshares Inc | FFIN |
-| 37 | 67 | $54.47 | [Chart](https://www.tradingview.com/chart/?symbol=ALRM) | Alarm.com Holdings, Inc. | ALRM |
-| 37 | 66 | $42.34 | [Chart](https://www.tradingview.com/chart/?symbol=SPYD) | SPDR Portfolio S&P 500 High Dividend ETF | SPYD |
-| 39 | 66 | $36.52 | [Chart](https://www.tradingview.com/chart/?symbol=HYLB) | Xtrackers USD High Yield Corporate Bond ETF | HYLB |
-| 39 | 66 | $20.32 | [Chart](https://www.tradingview.com/chart/?symbol=PEY) | Invesco High Yield Equity Dividend Achievers ETF | PEY |
-| 37 | 64 | $160.66 | [Chart](https://www.tradingview.com/chart/?symbol=SPG) | Simon Property Group, Inc. | SPG |
-| 38 | 64 | $83.25 | [Chart](https://www.tradingview.com/chart/?symbol=ACA) | Arcosa, Inc. Common Stock | ACA |
-| 39 | 63 | $23.52 | [Chart](https://www.tradingview.com/chart/?symbol=SPHY) | SPDR Portfolio High Yield Bond ETF | SPHY |
+| 21 | 86 | $31.60 | [Chart](https://www.tradingview.com/chart/?symbol=DAR) | DARLING INGREDIENTS INC. | DAR |
+| 23 | 86 | $12.55 | [Chart](https://www.tradingview.com/chart/?symbol=ZYME) | Zymeworks Inc. | ZYME |
+| 25 | 86 | $10.42 | [Chart](https://www.tradingview.com/chart/?symbol=LOCO) | El Pollo Loco Holdings, Inc. | LOCO |
+| 28 | 86 | $16.51 | [Chart](https://www.tradingview.com/chart/?symbol=SVOL) | Simplify Volatility Premium ETF | SVOL |
+| 23 | 85 | $13.17 | [Chart](https://www.tradingview.com/chart/?symbol=CCRN) | Cross Country Healthcare Inc | CCRN |
+| 18 | 84 | $97.78 | [Chart](https://www.tradingview.com/chart/?symbol=AFL) | Aflac Inc. | AFL |
+| 24 | 84 | $10.04 | [Chart](https://www.tradingview.com/chart/?symbol=NMZ) | Nuveen Municipal High Income Opportunity Fund | NMZ |
+| 26 | 83 | $138.26 | [Chart](https://www.tradingview.com/chart/?symbol=DVA) | DaVita Inc. | DVA |
+| 25 | 82 | $11.78 | [Chart](https://www.tradingview.com/chart/?symbol=NVG) | Nuveen AMT-Free Municipal Credit Income Fund | NVG |
+| 23 | 79 | $10.20 | [Chart](https://www.tradingview.com/chart/?symbol=BRKL) | Brookline Bancorp Inc | BRKL |
+| 23 | 79 | $186.57 | [Chart](https://www.tradingview.com/chart/?symbol=AIZ) | Assurant, Inc. | AIZ |
+| 24 | 79 | $12.10 | [Chart](https://www.tradingview.com/chart/?symbol=NU) | Nu Holdings Ltd. | NU |
+| 24 | 79 | $152.70 | [Chart](https://www.tradingview.com/chart/?symbol=NICE) | NICE Ltd | NICE |
+| 23 | 78 | $73.85 | [Chart](https://www.tradingview.com/chart/?symbol=MET) | MetLife, Inc. | MET |
+| 28 | 78 | $18.73 | [Chart](https://www.tradingview.com/chart/?symbol=KRNT) | Kornit Digital Ltd. | KRNT |
+| 28 | 78 | $12.22 | [Chart](https://www.tradingview.com/chart/?symbol=RQI) | COHEN & STEERS QUALITY INCOME REALTY FUND, INC. COMMON SHARES | RQI |
+| 29 | 78 | $23.29 | [Chart](https://www.tradingview.com/chart/?symbol=IBTF) | iShares iBonds Dec 2025 Term Treasury ETF | IBTF |
+| 30 | 77 | $59.90 | [Chart](https://www.tradingview.com/chart/?symbol=FTSM) | First Trust Enhanced Short Maturity ETF | FTSM |
+| 24 | 76 | $86.05 | [Chart](https://www.tradingview.com/chart/?symbol=BIDU) | Baidu, Inc. | BIDU |
+| 27 | 76 | $44.74 | [Chart](https://www.tradingview.com/chart/?symbol=EPI) | WisdomTree India Earnings Fund ETF | EPI |
+| 31 | 76 | $100.28 | [Chart](https://www.tradingview.com/chart/?symbol=MINT) | PIMCO Enhanced Short Maturity Active Exchange-Traded Fund | MINT |
+| 37 | 75 | $40.62 | [Chart](https://www.tradingview.com/chart/?symbol=APOG) | Apogee Enterprises Inc | APOG |
+| 32 | 74 | $23.13 | [Chart](https://www.tradingview.com/chart/?symbol=IBHF) | iShares iBonds 2026 Term High Yield and Income ETF | IBHF |
+| 36 | 74 | $20.88 | [Chart](https://www.tradingview.com/chart/?symbol=BKLN) | Invesco Senior Loan ETF | BKLN |
+| 32 | 73 | $294.83 | [Chart](https://www.tradingview.com/chart/?symbol=UTHR) | United Therapeutics Corp | UTHR |
+| 32 | 73 | $30.73 | [Chart](https://www.tradingview.com/chart/?symbol=FLRN) | SPDR Bloomberg Investment Grade Floating Rate ETF | FLRN |
+| 29 | 72 | $22.85 | [Chart](https://www.tradingview.com/chart/?symbol=IBTG) | iShares iBonds Dec 2026 Term Treasury ETF | IBTG |
+| 38 | 70 | $77.92 | [Chart](https://www.tradingview.com/chart/?symbol=GPN) | Global Payments, Inc. | GPN |
+| 34 | 69 | $47.58 | [Chart](https://www.tradingview.com/chart/?symbol=SPHD) | Invesco S&P 500 High Dividend Low Volatility ETF | SPHD |
+| 35 | 69 | $78.28 | [Chart](https://www.tradingview.com/chart/?symbol=FIS) | Fidelity National Information Services, Inc. | FIS |
+| 35 | 69 | $45.92 | [Chart](https://www.tradingview.com/chart/?symbol=FTSL) | First Trust Senior Loan Fund ETF | FTSL |
+| 36 | 68 | $54.28 | [Chart](https://www.tradingview.com/chart/?symbol=ALRM) | Alarm.com Holdings, Inc. | ALRM |
+| 36 | 65 | $34.12 | [Chart](https://www.tradingview.com/chart/?symbol=FFIN) | First Financial Bankshares Inc | FFIN |
+| 39 | 65 | $20.37 | [Chart](https://www.tradingview.com/chart/?symbol=PEY) | Invesco High Yield Equity Dividend Achievers ETF | PEY |
+| 39 | 65 | $36.53 | [Chart](https://www.tradingview.com/chart/?symbol=HYLB) | Xtrackers USD High Yield Corporate Bond ETF | HYLB |
+| 39 | 62 | $23.55 | [Chart](https://www.tradingview.com/chart/?symbol=SPHY) | SPDR Portfolio High Yield Bond ETF | SPHY |
+| 39 | 62 | $83.56 | [Chart](https://www.tradingview.com/chart/?symbol=ACA) | Arcosa, Inc. Common Stock | ACA |
 
 ## **Methodology**
 
